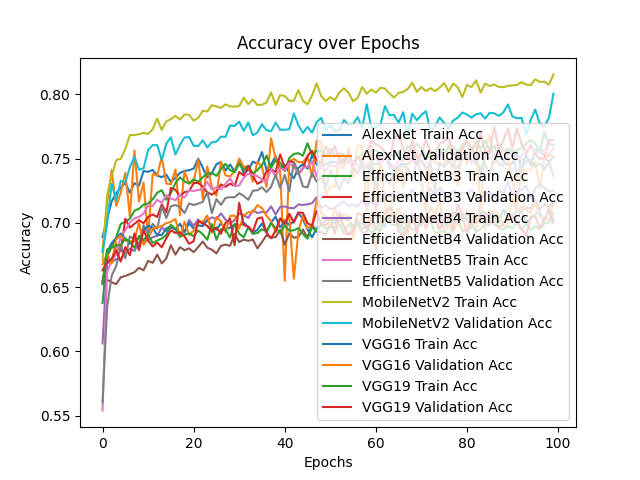
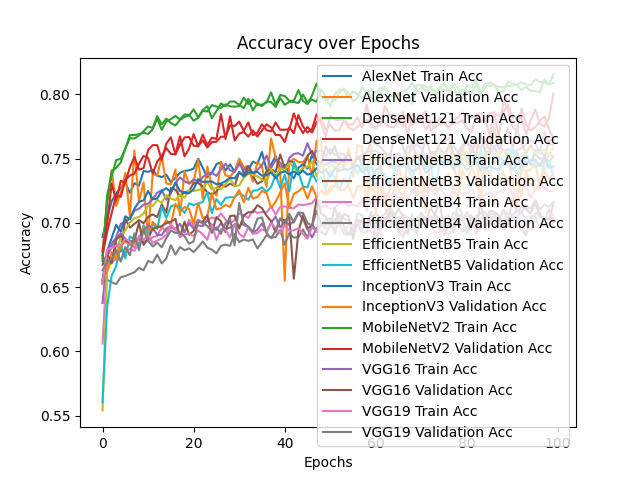
wrote tsne code

Changed region(s): [[0.1562, 0.125, 0.9062, 0.9375]]

diff --git a/tsne_model_features.py b/tsne_model_features.py
@@ -101,23 +101,23 @@ def initialize_dataloaders(img_size, crop_size):
     batch_size = 64
     shuffle = True
 
-    dataloaders = {'train' : 0, 'val' : 0, 'test' : test_dataloader}
     num_train = len(open("train_labels.csv", 'r').readlines())
     num_val = len(open("val_labels.csv", 'r').readlines())
     num_test = len(open("test_labels.csv", 'r').readlines())
 
-    print("num train ", num_train, " num val ", num_val)
+    print("num train ", num_train, " num val ", num_val, " num test ", num_test)
 
     dataset_sizes = {'train' : 0, 'val' : 0, 'test' : num_test}
 
     # train_dataloader = DataLoader(train_dataset, batch_size = batch_size, shuffle = shuffle)
     # val_dataloader = DataLoader(val_dataset, batch_size = batch_size, shuffle = False)
     test_dataloader = DataLoader(test_dataset, batch_size = num_test, shuffle = False)
+    dataloaders = {'train' : 0, 'val' : 0, 'test' : test_dataloader}
 
     return dataloaders, dataset_sizes
 
 def get_features(model, dataloaders):
-    phase = 'train'
+    phase = 'test'
     # Iterate over data.
     for inputs, labels in dataloaders[phase]:
         inputs = inputs.to(device)
@@ -125,7 +125,42 @@ def get_features(model, dataloaders):
 
         outputs = model(inputs)
         print(outputs)
+        print(outputs.shape)
 
+        print(labels, labels.shape)
+
+    return outputs, labels
+
+from sklearn.manifold import TSNE
+import matplotlib.pyplot as plt
+from sklearn.decomposition import PCA
+
+def get_tsne(model_name, outputs, labels, classes):
+    n_components = 2
+    tsne = TSNE(n_components, learning_rate = 'auto')
+    tsne_result = tsne.fit_transform(outputs)
+    # pca = PCA(n_components=2)
+    # tsne_result = pca.fit_transform(outputs)
+    # print(tsne_result.shape)
+
+    # print(labels)
+    plt.clf()
+    for i in range(len(classes)):
+        class_labels = torch.nonzero(torch.where(labels == i, 1, 0))
+        # print(class_labels.shape)
+        # print(labels[class_labels].shape)
+        # print(i)
+        # print(tsne_result[class_labels].shape)
+        squeezed = np.squeeze(tsne_result[class_labels])
+        # print(squeezed.shape)
+        # print(tsne_result[class_labels])
+        # print(squeezed[:, 0], squeezed[:, 1])
+        plt.scatter(squeezed[:, 0], squeezed[:, 1], label = str(classes[i]))
+    plt.xlabel("TSNE1")
+    plt.ylabel("TSNE2")
+    plt.title(f"TSNE Plot for {model_name} Features")
+    plt.legend()
+    plt.show()
 
 # AlexNet -- not modified
 def AlexNet(num_classes, num_epochs):
@@ -154,10 +189,27 @@ def AlexNet(num_classes, num_epochs):
     best_model_wts_pth = model_name + ".pth"
 
     model.load_state_dict(torch.load(best_model_wts_pth))
+    # print(model)
+
+    # remove num classes layer
+    model.classifier = nn.Sequential(*list(model.classifier.children())[:-2])
     print(model)
+
+    model.eval()
+
+    return model, dataloaders
 
     # run_train_model(model, model_name, criterion, best_model_wts_pth, dataloaders, dataset_sizes)
 
+metadata_path = "data/archive(2)/HAM10000_metadata.csv"
+df = pd.read_csv(metadata_path, sep = ",")
+print(df)
+classes = sorted(df.dx.unique())
+print(classes)
+
 num_epochs = 100
 num_classes = 7
-AlexNet(num_classes, num_epochs)
+model, dataloaders = AlexNet(num_classes, num_epochs)
+
+outputs, labels = get_features(model, dataloaders)
+get_tsne("AlexNet", outputs, labels, classes)

diff --git a/plot_acc_loss_curves.py b/plot_acc_loss_curves.py
@@ -1,4 +1,4 @@
-# analysis
+# plot accuracy and loss curves
 
 import numpy as np
 import matplotlib.pyplot as plt
@@ -141,17 +141,19 @@ def combo_plots_4_plots(list_of_models):
 def main():
     artifacts_path = "artifacts/"
     AlexNet = ("AlexNet", artifacts_path + "AlexNet__epochs_100.log.txt")
+    DenseNet121 = ("DenseNet121", artifacts_path + "DenseNet121__epochs_100.log.txt")
     EfficientNetB3 = ("EfficientNetB3", artifacts_path + "EfficientNetB3__epochs_100.log.txt")
     EfficientNetB4 = ("EfficientNetB4", artifacts_path + "EfficientNetB4__epochs_100.log.txt")
     EfficientNetB5 = ("EfficientNetB5", artifacts_path + "EfficientNetB5__epochs_100.log.txt")
+    InceptionV3 = ("InceptionV3", artifacts_path + "InceptionV3__epochs_100.log.txt")
     MobileNetV2 = ("MobileNetV2", artifacts_path + "MobileNetV2__epochs_100.log.txt")
     VGG16 = ("VGG16", artifacts_path + "VGG16__epochs_100.log.txt")
     VGG19 = ("VGG19", artifacts_path + "VGG19__epochs_100.log.txt")
 
-    model_list = [AlexNet, EfficientNetB3, EfficientNetB4, EfficientNetB5, MobileNetV2, VGG16, VGG19]
+    model_list = [AlexNet, DenseNet121, EfficientNetB3, EfficientNetB4, EfficientNetB5, InceptionV3, MobileNetV2, VGG16, VGG19]
 
-    # individual_plots(model_list)
-    # combo_plots(model_list)
+    individual_plots(model_list)
+    combo_plots(model_list)
     combo_plots_4_plots(model_list)
 
 main()
